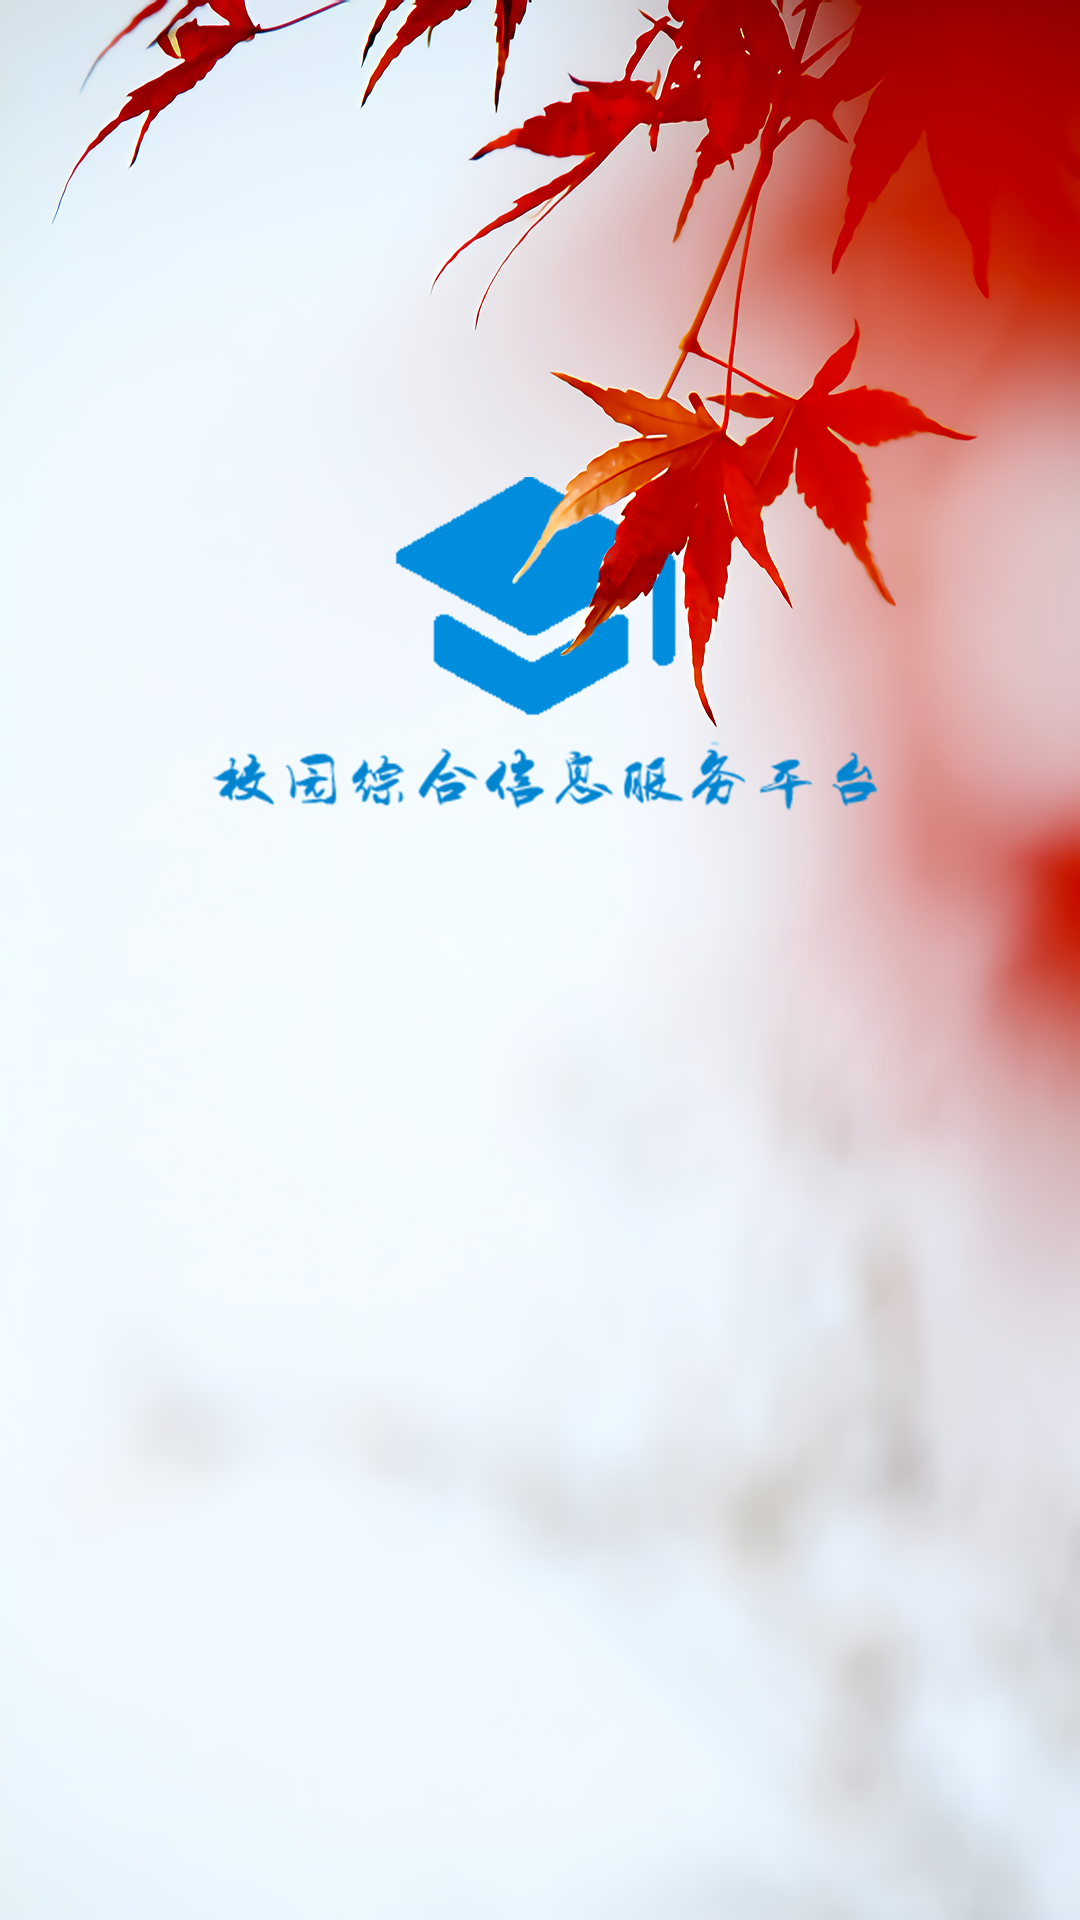
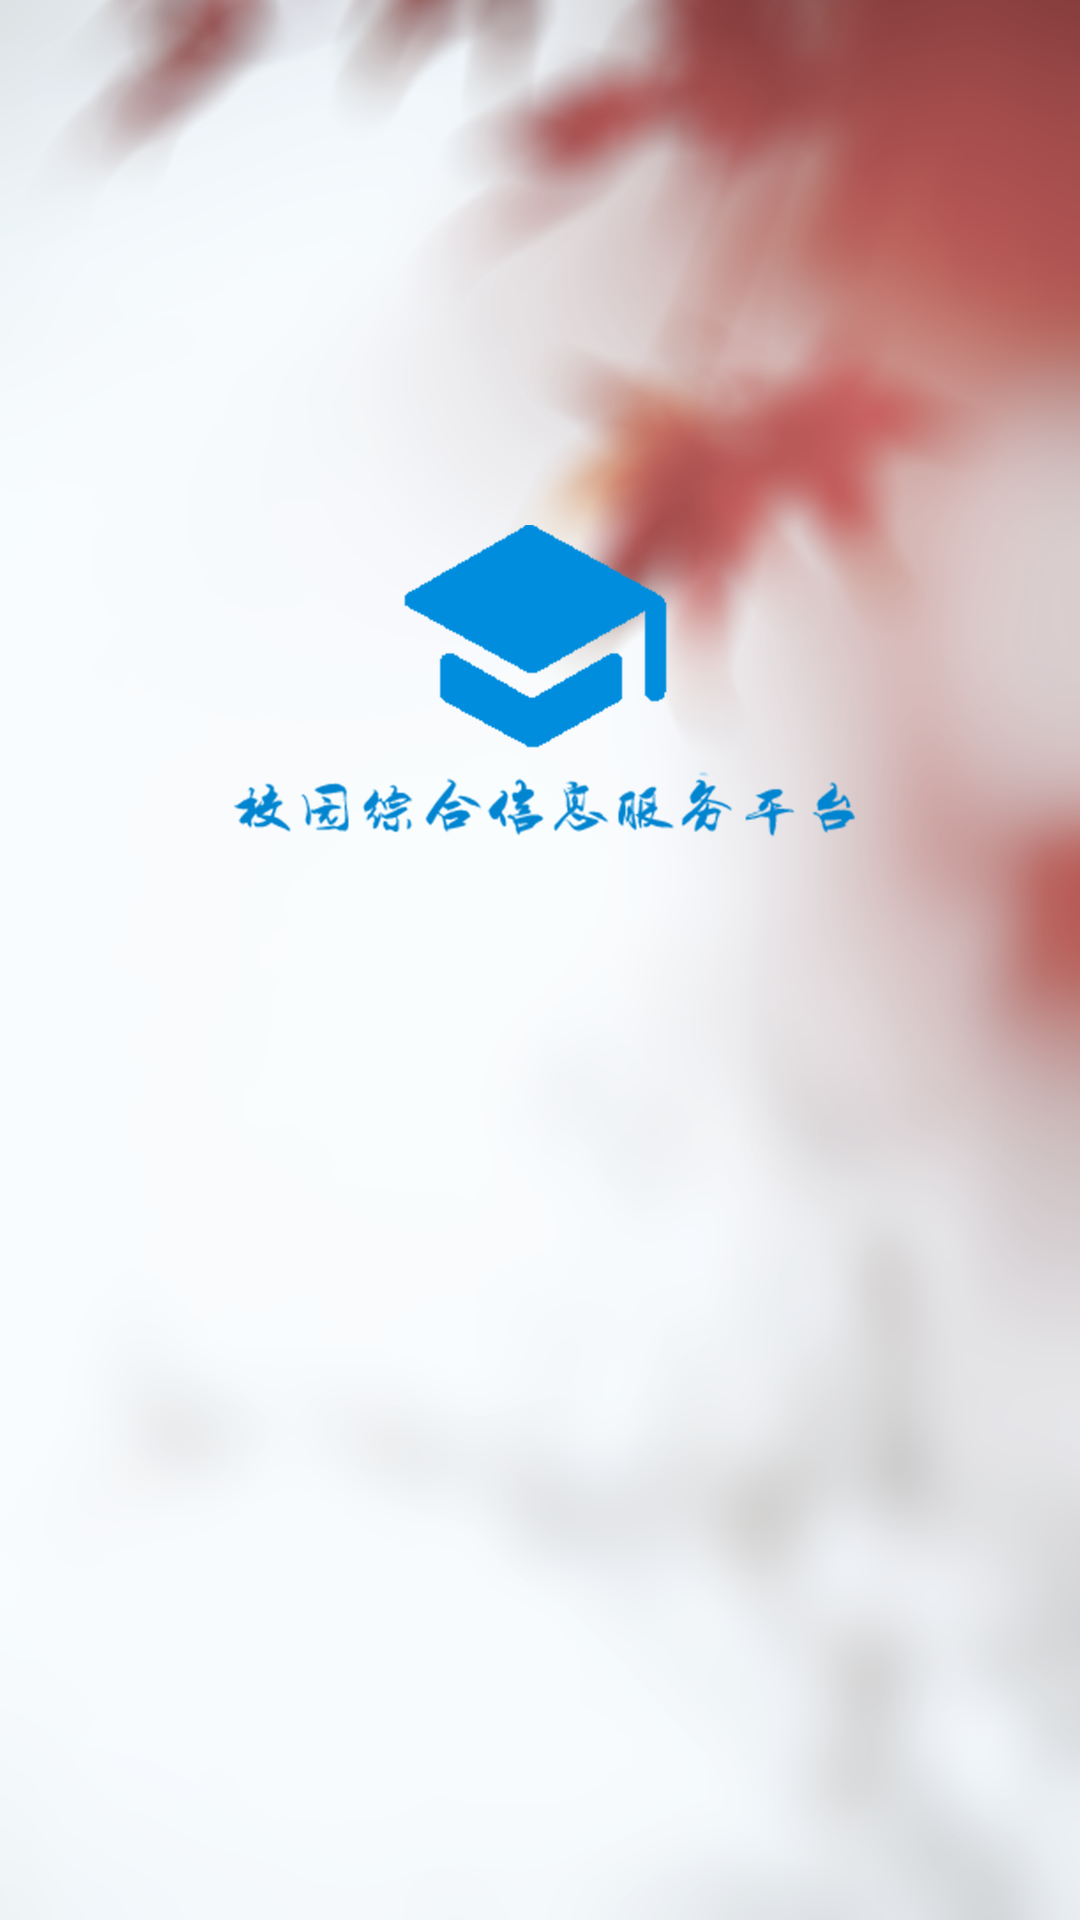
再次修改登入界面

Changed region(s): [[0.2139, 0.0, 1.0, 0.5625], [0.0611, 0.0, 0.275, 0.0938]]

diff --git a/index.html b/index.html
@@ -10,7 +10,10 @@
     <style type="text/css">  
     	body {
     		background-image: url(images/login/background.png);background-size: cover;
-    	}  	
+    	} 
+    	#head{
+    		 background-color: rgba(247,247,247,.5);
+    	} 	
     	.area {
 				margin: 20px auto 0px auto;
 			}
@@ -39,9 +42,9 @@
 </head>
 <body>
 	<!--头部标签-->
-	<header class="mui-bar mui-bar-nav">
+	<!--<header id="head" class="mui-bar mui-bar-nav">
 			<h1 class="mui-title">校园百事通</h1>
-	</header>
+	</header>-->
 	<!--顶部图片-->
 	<!--<img src="images/login/top.png" style="width: 100%; height: 100%;" absolute; />-->
 	<!--中间内容-->
